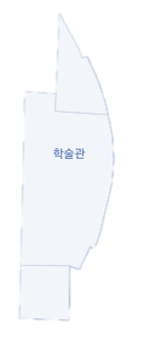
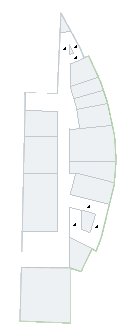
문화, 학술, 혜화, 학림 단면도 추가, 학교 이미지 업데이트

diff --git a/lib/screen/home_screen.dart b/lib/screen/home_screen.dart
@@ -2021,7 +2021,7 @@ class _HomeScreenState extends State<HomeScreen> {
                               floorButtonPath(nowFloor, _showButton);
                             });
                           },
-                          child: Text('1F'),
+                          child: Text('B1'),
                         ),
                       ),
                       Positioned(
@@ -2059,7 +2059,7 @@ class _HomeScreenState extends State<HomeScreen> {
                           onPressed: () {
                             setState(() {
                               culturePath = 'assets/images/floor/문화1.png';
-                              nowFloor = 1;
+                              nowFloor = -1;
                               floorButtonPath(nowFloor, _showButton);
                             });
                           },
@@ -2072,12 +2072,12 @@ class _HomeScreenState extends State<HomeScreen> {
                         child: ElevatedButton(
                           onPressed: () {
                             setState(() {
-                              culturePath = 'assets/images/floor/문화2.png';
-                              nowFloor = 2;
+                              culturePath = 'assets/images/floor/문화1.png';
+                              nowFloor = 1;
                               floorButtonPath(nowFloor, _showButton);
                             });
                           },
-                          child: Text('2F'),
+                          child: Text('1F'),
                         ),
                       ),
                       Positioned(
@@ -2086,12 +2086,12 @@ class _HomeScreenState extends State<HomeScreen> {
                         child: ElevatedButton(
                           onPressed: () {
                             setState(() {
-                              culturePath = 'assets/images/floor/문화3.png';
-                              nowFloor = 3;
+                              culturePath = 'assets/images/floor/문화1.png';
+                              nowFloor = 4;
                               floorButtonPath(nowFloor, _showButton);
                             });
                           },
-                          child: Text('3F'),
+                          child: Text('4F'),
                         ),
                       ),
                       Positioned(
@@ -2751,7 +2751,7 @@ class _HomeScreenState extends State<HomeScreen> {
                               floorButtonPath(nowFloor, _showButton);
                             });
                           },
-                          child: Text('1F'),
+                          child: Text('B1'),
                         ),
                       ),
                       Positioned(
@@ -2789,7 +2789,7 @@ class _HomeScreenState extends State<HomeScreen> {
                           onPressed: () {
                             setState(() {
                               hsPath = 'assets/images/floor/학술1.png';
-                              nowFloor = 1;
+                              nowFloor = -1;
                               floorButtonPath(nowFloor, _showButton);
                             });
                           },
@@ -2802,12 +2802,12 @@ class _HomeScreenState extends State<HomeScreen> {
                         child: ElevatedButton(
                           onPressed: () {
                             setState(() {
-                              hsPath = 'assets/images/floor/학술2.png';
-                              nowFloor = 2;
+                              hsPath = 'assets/images/floor/학술1.png';
+                              nowFloor = 1;
                               floorButtonPath(nowFloor, _showButton);
                             });
                           },
-                          child: Text('2F'),
+                          child: Text('1F'),
                         ),
                       ),
                       Positioned(
@@ -2816,12 +2816,12 @@ class _HomeScreenState extends State<HomeScreen> {
                         child: ElevatedButton(
                           onPressed: () {
                             setState(() {
-                              hsPath = 'assets/images/floor/학술3.png';
-                              nowFloor = 3;
+                              hsPath = 'assets/images/floor/학술1.png';
+                              nowFloor = 4;
                               floorButtonPath(nowFloor, _showButton);
                             });
                           },
-                          child: Text('3F'),
+                          child: Text('4F'),
                         ),
                       ),
                       Positioned(
@@ -2859,7 +2859,7 @@ class _HomeScreenState extends State<HomeScreen> {
                         child: ElevatedButton(
                           onPressed: () {
                             setState(() {
-                              hhPath = 'assets/images/floor/혜화1.png';
+                              hhPath = 'assets/images/floor/혜화4.png';
                               nowFloor = 1;
                               floorButtonPath(nowFloor, _showButton);
                             });
@@ -2873,31 +2873,17 @@ class _HomeScreenState extends State<HomeScreen> {
                         child: ElevatedButton(
                           onPressed: () {
                             setState(() {
-                              hhPath = 'assets/images/floor/혜화2.png';
-                              nowFloor = 2;
+                              hhPath = 'assets/images/floor/혜화4.png';
+                              nowFloor = 4;
                               floorButtonPath(nowFloor, _showButton);
                             });
                           },
-                          child: Text('2F'),
+                          child: Text('4F'),
                         ),
                       ),
                       Positioned(
                         left: 20, // 버튼의 x 좌표를 조절하세요.
                         bottom: 100, // 버튼의 y 좌표를 조절하세요.
-                        child: ElevatedButton(
-                          onPressed: () {
-                            setState(() {
-                              hhPath = 'assets/images/floor/혜화3.png';
-                              nowFloor = 3;
-                              floorButtonPath(nowFloor, _showButton);
-                            });
-                          },
-                          child: Text('3F'),
-                        ),
-                      ),
-                      Positioned(
-                        left: 20, // 버튼의 x 좌표를 조절하세요.
-                        bottom: 140, // 버튼의 y 좌표를 조절하세요.
                         child: ElevatedButton(
                           onPressed: () {
                             setState(() {
@@ -2911,7 +2897,7 @@ class _HomeScreenState extends State<HomeScreen> {
                       ),
                       Positioned(
                         left: 20, // 버튼의 x 좌표를 조절하세요.
-                        bottom: 180, // 버튼의 y 좌표를 조절하세요.
+                        bottom: 100, // 버튼의 y 좌표를 조절하세요.
                         child: ElevatedButton(
                           onPressed: () {
                             gotoBuildinginfo(_showButton);
